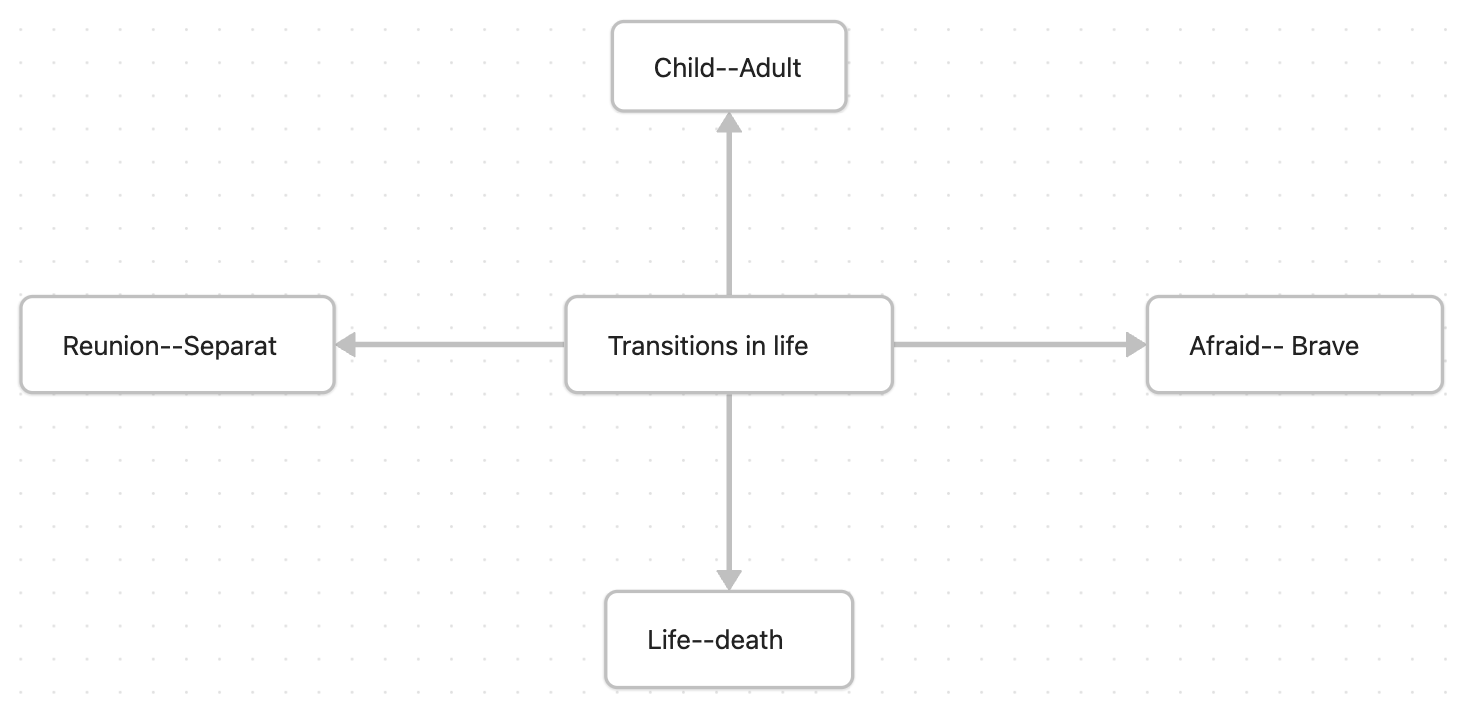
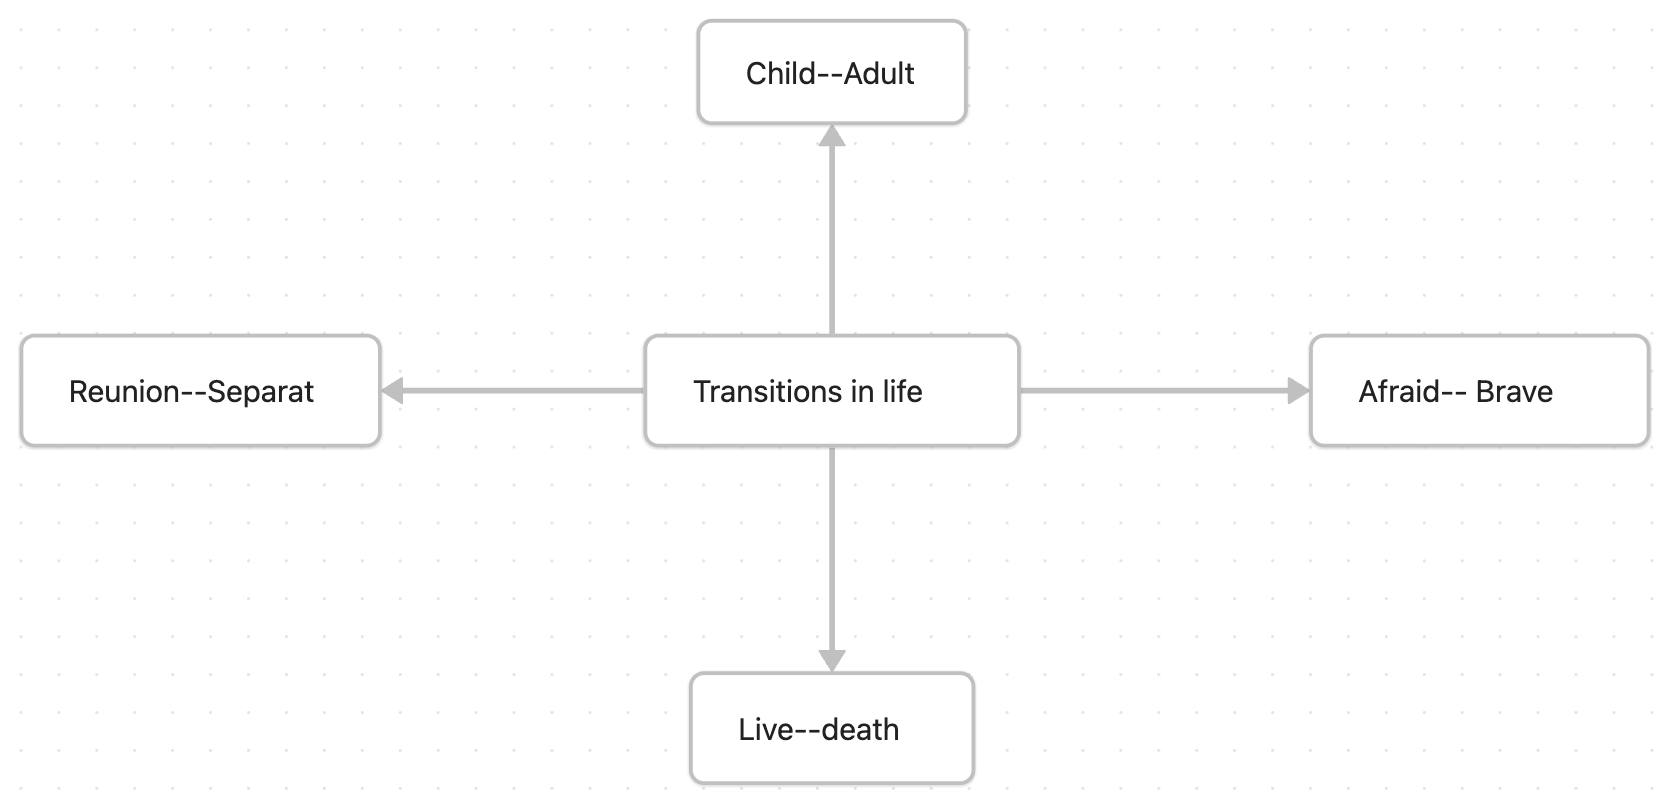
new changes

diff --git a/posts/w07s01.md b/posts/w07s01.md
@@ -10,7 +10,9 @@ allow_math: true
 
 ![brainstoeming01](/w07s01/brainstorm.png)
 
-At the beginning of the project, I decided to determine the general direction first，
+At the beginning of the project, I decided to determine the general direction first. In this Brainstorm I listed the main  transitions in my life. 
+And, finally “Live--death” been chose as the basic idea of this program.
+
 
 ## Assets choosing
 
